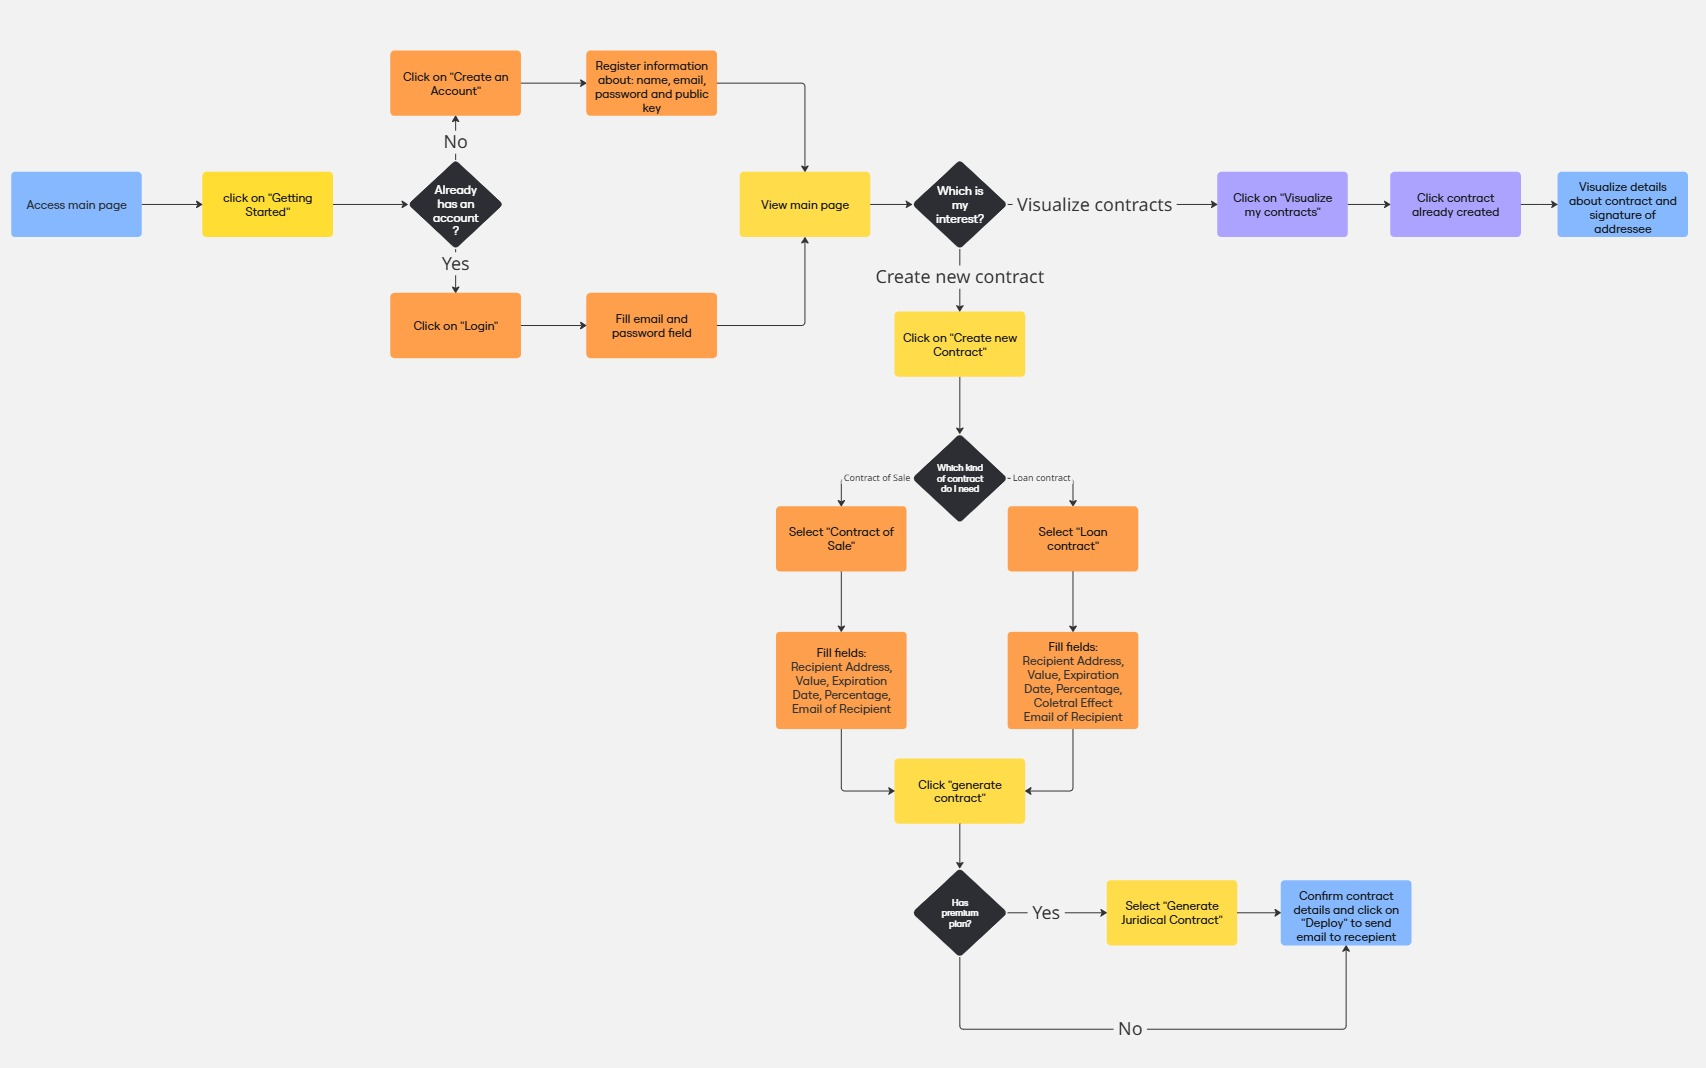
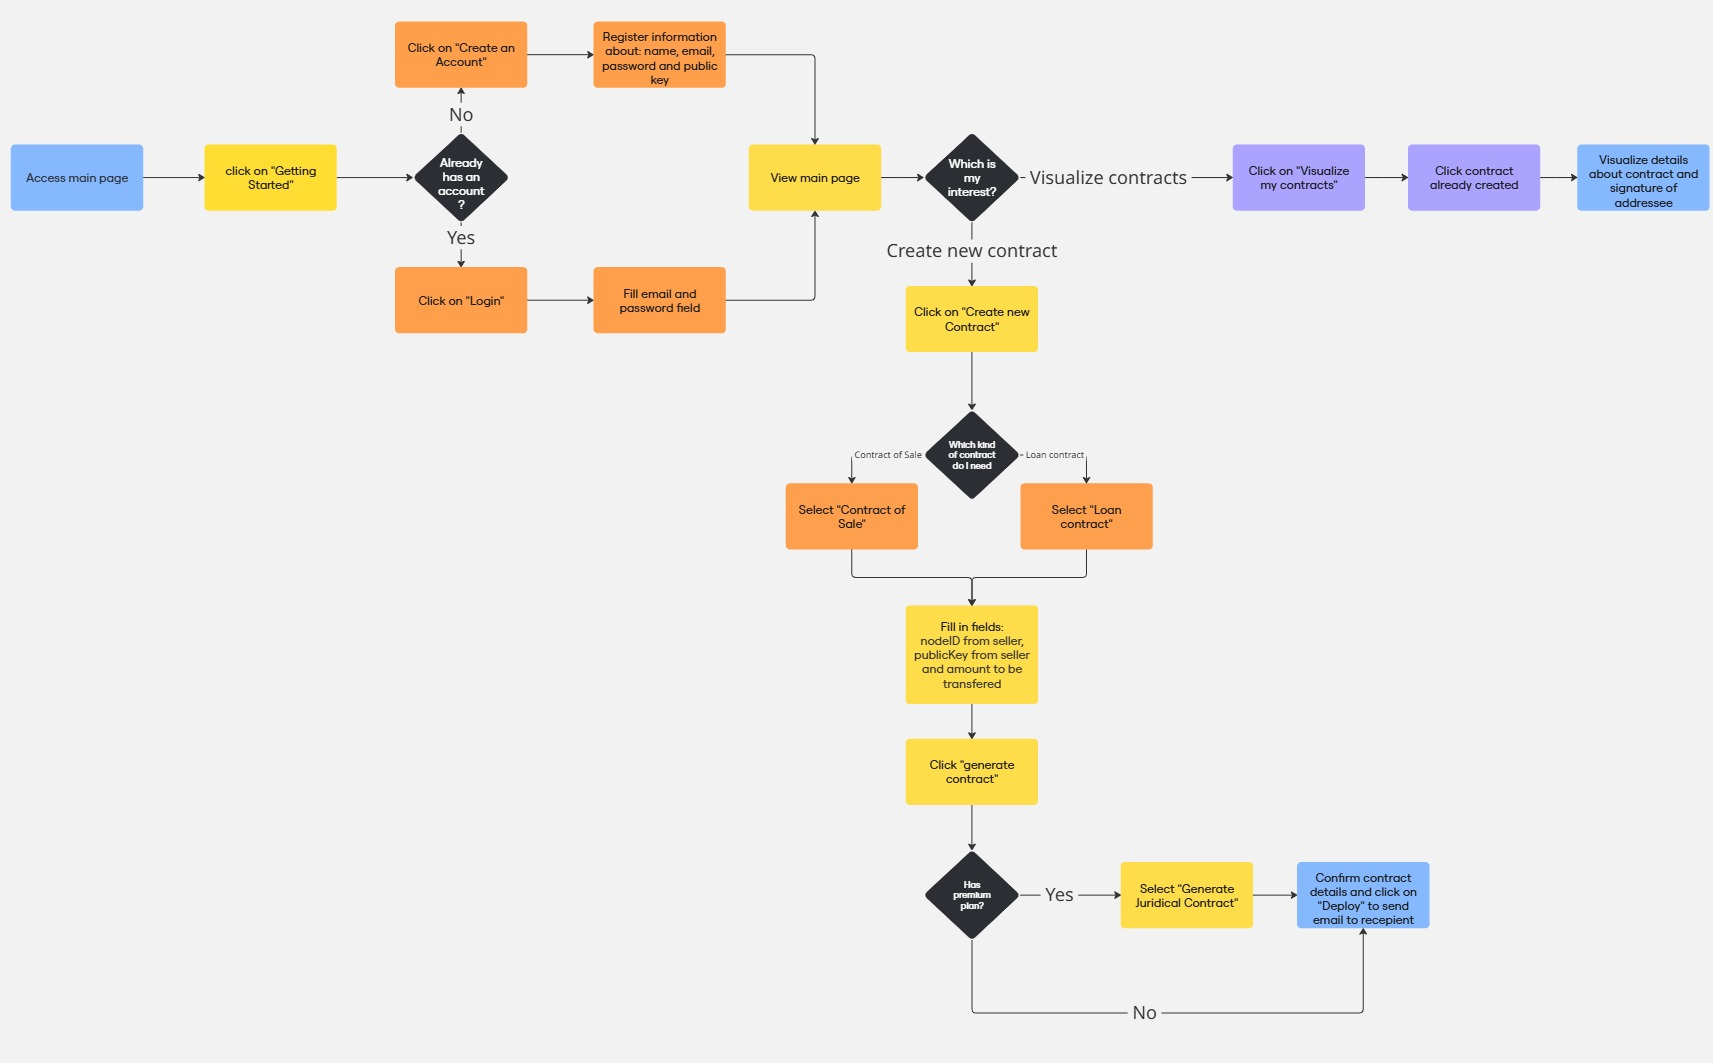
docs: update system flow

diff --git a/README.md b/README.md
@@ -67,8 +67,6 @@ To view existing contracts:
 To create a new contract:
 - Click on "Create new Contract"
 - Choose the type of contract needed:
-  - **Contract of Sale**: Requires Recipient Address, Value, Expiration Date, Percentage, Email of Recipient
-  - **Loan Contract**: Requires Recipient Address, Value, Expiration Date, Percentage, Coletral Effect, Email of Recipient
 - Fill in all required fields for the selected contract type
 - Click "generate contract" to create the contract
 
